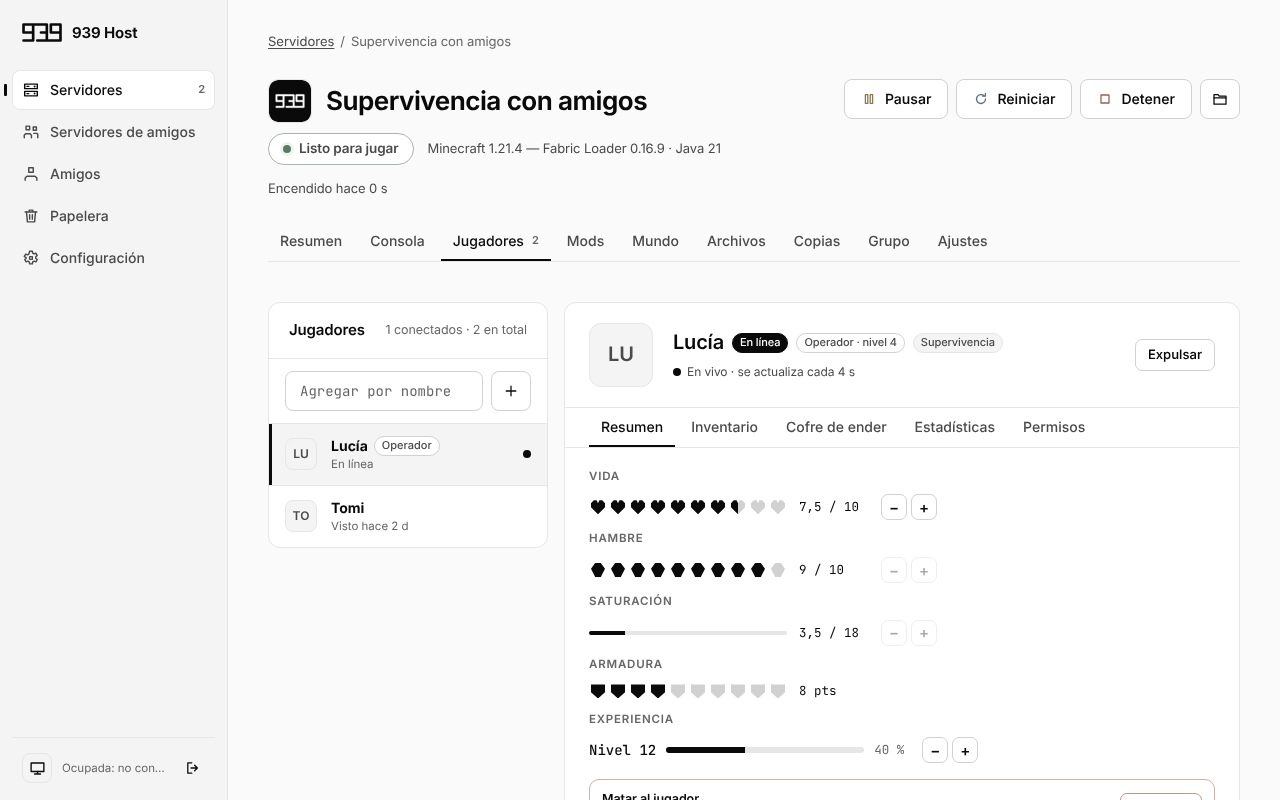
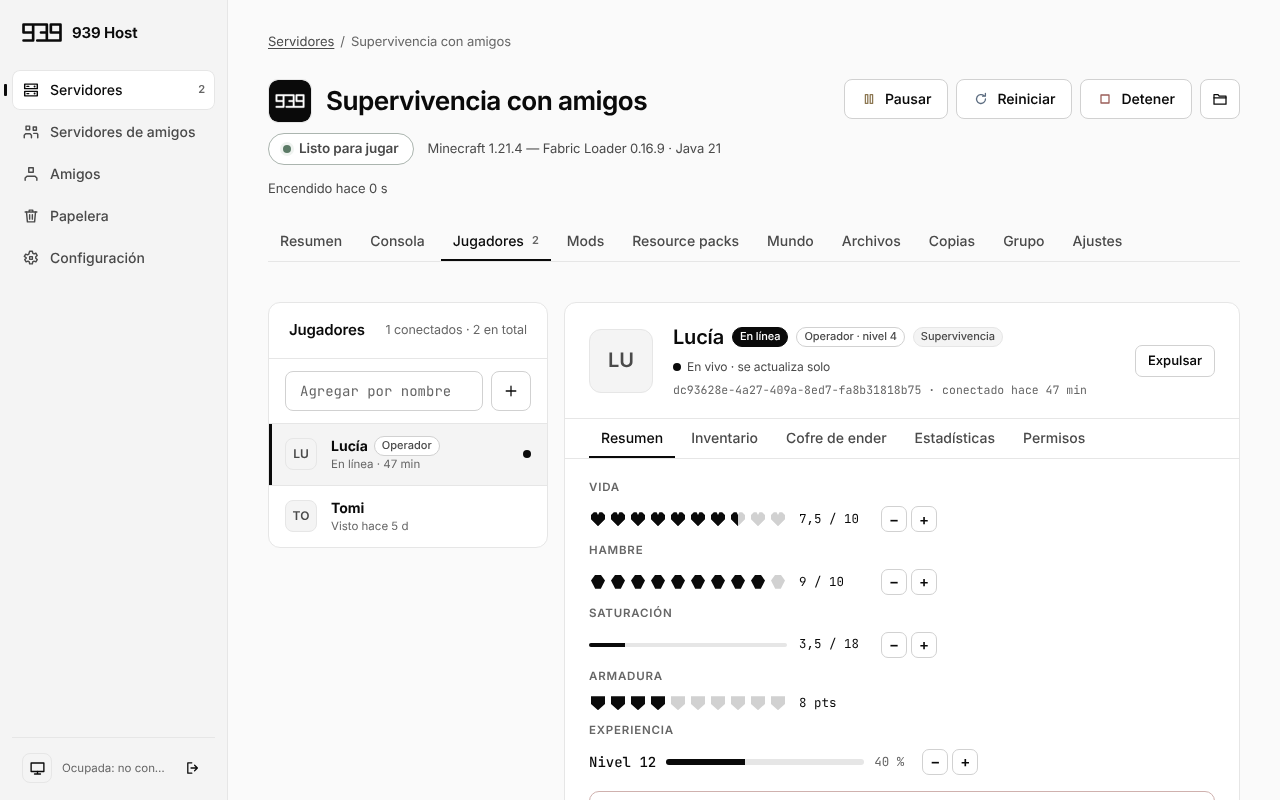
Release y presentación: notas de la 1.3.0 con todo desde la 0.9.0 (antes el script no encontraba la sección y salían vacías), estado del README siempre correcto (versión publicada en vivo), capturas nuevas con el inventario en casilleros; casilleros de equipo sin superponerse y tamaño para ventanas 
Claude-Session: https://claude.ai/code/session_01JDUAUpndGQ8kRXZ29abNmq

diff --git a/ci/vista-previa/mock.js b/ci/vista-previa/mock.js
@@ -29,7 +29,7 @@
       { id: 'l1', name: 'Servidor de pruebas', host: '127.0.0.1', port: 25570, addedAt: now, state: 'minecraft', detail: 'Minecraft 1.21.4 responde en 3 ms.', version: '1.21.4', online: 1, max: 20, latencyMs: 3, scope: 'esta-pc', sameAs: null, program: 'java.exe (proceso 8120)' },
       { id: 'l2', name: 'PC del living', host: '192.168.1.40', port: 25565, addedAt: now, state: 'cerrado', detail: 'No responde desde esta PC: está apagado, usa otro puerto o el firewall de esa PC lo bloquea.', version: null, online: null, max: null, latencyMs: null, scope: 'red-local', sameAs: null, program: null }],
     alias_status: { items: [], suggestion: { 'srv-demo': 'supervivencia' } }, list_backups: [], players_list: [
-      { name: 'Lucía', uuid: 'dc93628e-4a27-409a-8ed7-fa8b31818b75', online: true, whitelisted: true, opLevel: 4, banned: false, lastSeen: null },
+      { name: 'Lucía', uuid: 'dc93628e-4a27-409a-8ed7-fa8b31818b75', online: true, whitelisted: true, opLevel: 4, banned: false, lastSeen: null, onlineSince: new Date(Date.now() - 47 * 60000).toISOString() },
       { name: 'Tomi', uuid: '11111111-2222-4333-8444-555555555555', online: false, whitelisted: true, opLevel: null, banned: false, lastSeen: '2026-11-19T21:30:00-03:00' }],
     player_detail: { name: 'Lucía', uuid: 'dc93628e-4a27-409a-8ed7-fa8b31818b75', source: 'live', savedAt: null, health: 15, food: 18, saturation: 3.5, xpLevel: 12, xpProgress: 0.4,
       gamemode: 'survival', dimension: 'minecraft:overworld', pos: [120.5, 64, -340.2], facing: 'Norte', spawn: null, armorPoints: 8,
@@ -49,7 +49,7 @@
     game_assets_status: { enabled: true, ready: true, version: '1.21.4' },
[1 lines of base64/hex data omitted]
     game_names: { 'item:shield': 'Escudo', 'block:chest': 'Cofre', 'item:diamond_sword': 'Espada de diamante', 'block:oak_planks': 'Tablones de roble', 'item:enchanted_golden_apple': 'Manzana dorada encantada', 'enchantment:sharpness': 'Filo' },
-    external_status: { allowed: true, shared: true, canChange: true, onlineMode: true, whitelist: false, lanAccess: false, consent: true, mapping: true, myPort: 25565,
+    external_status: { lanIp: '192.168.1.20', gamePort: 25565, allowed: true, shared: true, canChange: true, onlineMode: true, whitelist: false, lanAccess: true, consent: true, mapping: true, myPort: 25565,
       entrances: [{ node: 'n0', name: 'Esta PC', online: true, isMe: true, info: { state: 'comprobada', detail: 'Comprobada desde otra PC del grupo: Minecraft 1.21.4 responde en 38 ms.', addr: '203.0.113.25:25565', addrV6: null, local: '192.168.1.20:25565', method: 'upnp', checkedAt: '2026-11-20T03:00:00-03:00' } },
         { node: 'n2', name: 'Tomi', online: true, isMe: false, info: { state: 'cgnat', detail: 'El router abrió el puerto, pero su IP de Internet (100.70.1.4) es compartida por tu proveedor (CGNAT): desde Internet no se llega a esta PC. Otra PC del grupo puede ser la entrada.', addr: null, method: 'upnp' } }],
       best: '203.0.113.25:25565', bestVerified: true, publicName: null },

diff --git a/ui/styles.css b/ui/styles.css
@@ -812,6 +812,14 @@ details.tech[open] > summary::before { content: '▾ '; }
 .slot .nm.full { padding: 3px; font-size: 9.5px; line-height: 1.12; font-weight: 550; color: var(--text2); display: -webkit-box; -webkit-line-clamp: 3; -webkit-box-orient: vertical; overflow: hidden; overflow-wrap: anywhere; hyphens: auto; }
 .slot .nm.unk-q { font-size: 18px; color: var(--text3); }
 .slotcol .slot, .body3 .slot { width: 52px; height: 52px; }
+.slotcol { grid-template-rows: repeat(4, 52px); gap: 5px; }
+/* Ventanas más angostas: casilleros más chicos (va después de las reglas de arriba, que si no las pisan). */
+@media (max-width: 1180px) {
+  .grid9 { grid-template-columns: repeat(9, 44px); gap: 4px; }
+  .slot, .slotcol .slot, .body3 .slot { width: 44px; height: 44px; }
+  .slotcol { grid-template-rows: repeat(4, 44px); gap: 4px; }
+  .slot img { width: 30px; height: 30px; }
+}
 .inv-list { display: flex; flex-direction: column; gap: 2px; min-width: 0; }
 .inv-group { font: 600 11px var(--font); letter-spacing: .06em; text-transform: uppercase; color: var(--text3); margin: 10px 0 4px; }
 .inv-group:first-child { margin-top: 0; }

diff --git a/ui/players.js b/ui/players.js
@@ -287,7 +287,7 @@ function paintProfile() {
   if (!p) { el.innerHTML = `<div class="empty" style="border:0">${icon('user', 28)}<h2>Elegí un jugador</h2><p>Vas a ver su vida, inventario, ubicación y estadísticas con datos reales del servidor.</p></div>`; return; }
   const d = pl.detail;
   const src = !d ? (pl.err ? `<span class="t2">${esc(pl.err)}</span>` : 'Cargando…')
-    : d.source === 'live' ? '<span class="live"><span class="dot"></span>En vivo · se actualiza cada 4 s</span>'
+    : d.source === 'live' ? '<span class="live"><span class="dot"></span>En vivo · se actualiza solo</span>'
       : d.source === 'saved' ? `Último guardado de Minecraft${d.savedAt ? ` · ${esc(fmtDate(d.savedAt))}` : ''}`
         : 'Sin datos guardados: todavía no entró a este mundo.';
   const scrollY = el.querySelector('.pf-scroll')?.scrollTop || 0;

diff --git a/ci/vista-previa/readme.py b/ci/vista-previa/readme.py
@@ -33,18 +33,21 @@ with sync_playwright() as p:
         save(pg.screenshot(), f"app-jugadores-{suf}.png")
         # Inventario en lista, con un ítem elegido.
         pg.click('[data-a="pf-tab"][data-v="inv"]'); pg.wait_for_timeout(600)
-        pg.click('[data-a="inv-view"][data-v="list"]'); pg.wait_for_timeout(300)
-        pg.click('[data-key="inv:4"]'); pg.wait_for_timeout(500)
+        # Casilleros (la vista tipo Minecraft), con un objeto elegido.
+        pg.set_viewport_size({"width": 1280, "height": 1040})
+        pg.evaluate("pl.invView = 'grid'; paintProfile()"); pg.wait_for_timeout(300)
+        pg.click('[data-key="inv:0"]'); pg.wait_for_timeout(500)
         pg.evaluate("document.querySelector('.inv-wrap').scrollIntoView({block:'start'}); window.scrollBy(0,-90); document.querySelector('main, .main, #view')?.scrollBy?.(0,-90)")
         pg.wait_for_timeout(200)
         save(pg.screenshot(), f"app-inventario-{suf}.png")
+        pg.set_viewport_size({"width": 1280, "height": 800})
         # Conexión por IP.
         pg.click('.tab:has-text("Resumen")'); pg.wait_for_timeout(900)
         pg.set_viewport_size({"width": 1280, "height": 1060})
         pg.click('[data-a="ext-open"]'); pg.wait_for_timeout(700)
         pg.evaluate("document.querySelector('.overlay').scrollTop = 0; document.activeElement?.blur()"); pg.wait_for_timeout(150)
         save(pg.screenshot(), f"app-conexion-ip-{suf}.png")
-        pg.keyboard.press("Escape"); pg.wait_for_timeout(300)
+        pg.click('.overlay button:has-text("Cancelar")'); pg.wait_for_timeout(400)
         pg.set_viewport_size({"width": 1280, "height": 800})
         # Preparar para jugar (resultado).
         pg.click('[data-a="client-prepare"]'); pg.wait_for_timeout(800)

diff --git a/README.md b/README.md
@@ -119,7 +119,7 @@ otra vez.
   </picture>
   <picture>
     <source media="(prefers-color-scheme: dark)" srcset="docs/img/app-inventario-oscuro.png">
-    <img src="docs/img/app-inventario-claro.png" width="49%" alt="Inventario en lista: nombre completo, cantidad, durabilidad y mod de cada objeto">
+    <img src="docs/img/app-inventario-claro.png" width="49%" alt="Inventario en casilleros como en Minecraft: objetos, cantidades, durabilidad y encantamientos; se arrastran de un casillero a otro">
   </picture>
 </p>
 
@@ -192,23 +192,29 @@ funciona.
 
 ## Estado del proyecto
 
-La versión publicada es la **0.9.0**. La rama
-[`rediseno-v3`](https://github.com/bouthex/939-host/tree/rediseno-v3) tiene la **1.3.0** (próxima versión). Hasta la 1.2.0 se probó en Windows reales (servidores, dos
-PCs en lugares distintos y un cliente real de Minecraft); lo nuevo de la 1.3.0 (grupo compartido,
-chat de grupos, inventario en vivo) espera la prueba entre dos PCs. **Todavía no está publicada**. Las capturas de esta página son de esa versión, con datos de ejemplo.
+<p>
+<a href="https://github.com/bouthex/939-host/releases/latest"><img src="https://img.shields.io/github/v/release/bouthex/939-host?label=versi%C3%B3n%20publicada&color=black" alt="Versión publicada"></a>
+<a href="https://github.com/bouthex/939-host/actions/workflows/pruebas-windows.yml?query=branch%3Arediseno-v3"><img src="https://github.com/bouthex/939-host/actions/workflows/pruebas-windows.yml/badge.svg?branch=rediseno-v3" alt="Pruebas en Windows"></a>
+</p>
 
-En la 0.9.0 ya están: crear y administrar servidores, mods de Modrinth, puntos de restauración y
-compartir entre PCs. Preparar para jugar, la conexión por IP, las fichas de jugadores e
-inventarios con mods, las actualizaciones automáticas, los resource packs y lo demás de esta página llegan con la 1.1.0, la 1.2.0 y la 1.3.0.
+La versión publicada es la que figura arriba, en [Releases](https://github.com/bouthex/939-host/releases/latest).
+El desarrollo sigue en la rama [`rediseno-v3`](https://github.com/bouthex/939-host/tree/rediseno-v3); lo que
+todavía no está publicado se anota en el [registro de cambios](CHANGELOG.md).
+
+Cada versión se prueba en Windows reales en la integración continua: servidores de Minecraft reales,
+dos PCs de Windows hablándose por la red P2P, un cliente real de Minecraft que entra a jugar (Vanilla
+1.20.4 y 26.2, Fabric 26.3), instalación encima de la versión anterior y actualización con vuelta
+atrás. Lo que depende de dos casas con redes distintas (routers, CGNAT, entrada desde Internet) se
+prueba además a mano entre PCs reales.
 
 **Necesita configuración aparte:** CurseForge funciona solo con una clave de su API oficial
 ([cómo conseguirla](docs/MANUAL.md#curseforge)). Lo que todavía no hace está en
 [Limitaciones](docs/LIMITACIONES.md).
 
 > [!NOTE]
-> 939 Host está en desarrollo y puede tener errores. La versión 0.9.0 **no está firmada
-> digitalmente**: Windows puede mostrar un aviso al abrirla, y con Smart App Control activado la
-> bloquea. No recomendamos desactivar protecciones de Windows.
+> 939 Host **no está firmado digitalmente** todavía: Windows puede mostrar un aviso al abrirlo, y con
+> Smart App Control activado lo bloquea. Se pidió la firma gratuita de SignPath Foundation. No
+> recomendamos desactivar protecciones de Windows.
 
 <br>
 
@@ -220,7 +226,7 @@ inventarios con mods, las actualizaciones automáticas, los resource packs y lo 
 | **Para jugar** | Minecraft: Java Edition con una cuenta oficial |
 | **Java** | No hace falta: 939 Host baja el que necesita cada servidor |
 
-1. Descargá **`939Host-0.9.0-instalador.exe`** desde
+1. Descargá **`939Host-<versión>-instalador.exe`** desde
    [Releases](https://github.com/bouthex/939-host/releases/latest). También hay una versión
    portable y los hashes SHA-256 para verificar las descargas.
 2. Ejecutalo. Se instala para tu usuario, sin permisos de administrador.
@@ -293,11 +299,15 @@ perfiles y mods de siempre quedan como estaban.
 
 <details><summary><b>¿Cómo se actualiza?</b></summary>
 
-Solo. Desde la 1.1.0, al abrir 939 Host busca la última versión oficial; si hay una, la descarga, la
-verifica y la instala, y vuelve a abrir. Servidores, mundos, perfil y configuración quedan como
-estaban. Nunca se actualiza con un servidor encendido. Si estás usando la app, aparece un aviso
-«Actualizar ahora». Quien tenga una versión anterior a la 1.1.0 tiene que instalar la 1.1.0 una vez a
-mano, encima de la que tenga.
+Solo, desde la 1.3.0. Al abrir (y cada 6 horas) 939 Host busca la última versión oficial; si hay una,
+la descarga, comprueba su firma y su SHA-256, la instala y vuelve a abrir. Si la versión nueva no
+arranca, vuelve sola a la anterior. Servidores, mundos, mods, grupos, perfil y configuración quedan
+como estaban. Nunca se actualiza con un servidor encendido; si estás usando la app, aparece un aviso
+«Actualizar ahora». También en Configuración → Actualizaciones → *Buscar actualizaciones*.
+
+Si tenés la 0.9.0 o una versión de prueba anterior (1.1.0, 1.2.0), instalá la 1.3.0 **una vez a mano**
+encima de la que tengas (se conservan todos los datos): esas versiones confían en una clave de
+publicación anterior. Desde la 1.3.0, las siguientes llegan solas.
 </details>
 
 <details><summary><b>Windows me muestra un aviso al abrirlo</b></summary>

diff --git a/CHANGELOG.md b/CHANGELOG.md
@@ -1,6 +1,41 @@
 # Registro de cambios
 
-### 1.3.0 (rama rediseno-v3, sin release)
+## 1.3.0
+
+Primera versión oficial desde la 0.9.0. Reúne todo lo de las versiones de prueba 1.1.0, 1.2.0 y 1.3.0.
+
+**Servidor compartido entre PCs**
+- «Iniciar» y «Detener» desde cualquier PC del grupo actúan en la PC que aloja; el estado, los jugadores, el tiempo por tick, los TPS y la memoria se ven en vivo en todas.
+- Traspasos manuales y al salir sin perder el mundo; con dos PCs, si la anfitriona se cae, la otra lo levanta sola (con internet) y la que vuelve aparta su copia sin perderla.
+- Pedidos para alojar que siempre esperan la respuesta de quien aloja (nunca se aceptan solos), con estados reales y aviso de sincronización que siempre se cierra.
+- Traspaso de propiedad en dos pasos: la otra PC acepta y recién ahí cambia. Firmado, guardado y repetible: si un mensaje se pierde o una PC se cierra en el medio, termina igual y nunca quedan dos propietarias ni ninguna.
+- Nombres reales de cada PC en el grupo, también en las PCs que solo juegan.
+
+**Jugadores**
+- Detección con la lista del propio servidor (UUID real), además del registro: ya no queda en 0 jugadores con alguien conectado (26.3 cambió el formato de los avisos) y una salida no vista se corrige sola.
+- Ficha en vivo: UUID, tiempo conectado, vida, hambre, saturación, experiencia, inventario con objetos de mods y encantamientos. Cambios de a un paso que se hacen en el servidor real y se comprueban.
+- Inventario visual: arrastrar y soltar, dar, quitar y cambiar cantidades, desde 1.13 hasta 26.3. La propietaria administra aunque aloje otra PC.
+
+**Conexión**
+- Dirección `nombre.939host` para todo el grupo (también lleva Simple Voice Chat); se libera al borrar el servidor.
+- Jugadores sin 939 Host por IP (lo decide la propietaria; solo juegan): entradas desde Internet comprobadas desde otra PC, aviso de CGNAT y redirección manual.
+- Resumen con las direcciones separadas por quién las usa (integrantes, jugadores sin 939 Host, red local, esta PC), la IP real de la red local y «Copiar todas las direcciones» solo con las que funcionan.
+- Servidores encendidos fuera de 939 Host: se detecta uno propio encendido a mano (y no se abre una segunda copia sobre el mismo mundo) y se pueden vincular otros por dirección y puerto, con su estado real.
+
+**Versiones, mods y perfiles**
+- Cambiar la versión de Minecraft o el loader (Vanilla, Fabric, Forge, NeoForge) con revisión de cada mod, copia verificada y vuelta atrás.
+- Fabric en versiones viejas (Java 8) arranca; mods de rendimiento para cada versión exacta.
+- «Preparar para jugar» copia tus preferencias (teclas, idioma, accesibilidad, gráficos, sonido) desde tu perfil de siempre y conserva la lista de servidores; nada original se modifica.
+- Panel de Resource packs (Modrinth o `.zip`, obligatorio u opcional).
+
+**Además**
+- Actualizaciones automáticas desde las releases oficiales, con firma, SHA-256, vuelta atrás real y la portable incluida.
+- Chat con amigos y grupos de chat: sumar amigos a un grupo, copiar mensajes, direcciones, comandos e ids con un toque (nada se ejecuta solo).
+- Protección del spawn apagada al crear un servidor. Liberar la caché de descargas desde Configuración.
+
+## Historial de desarrollo (versiones de prueba, sin release)
+
+### 1.3.0 — etapas del 22 al 25/11
 - Servidor compartido: «Iniciar» desde cualquier integrante lo enciende en la PC que lo aloja (o, con el permiso libre, en la mejor PC conectada con la última versión); pedir ser anfitriona es otra acción. «Detener» desde otra PC (propietaria y coanfitrionas). Dos pedidos a la vez: gana uno y el otro ve quién lo está encendiendo.
 - Traspaso manual y al salir: arreglado «no se pudo copiar el mundo: el punto … no se puede verificar (época o PC no autorizadas)». Causa: la PC que recibía todavía tenía el permiso viejo; ahora lo actualiza desde la PC de origen antes de verificar.
 - Estado en vivo para todo el grupo: la anfitriona avisa cada cambio y las demás PCs lo muestran (lista de servidores y pantalla del servidor) y suenan al quedar en línea. Una comprobación de conexión fallida ya no deja «Preparando» para siempre; una instalación interrumpida ofrece reintentar.
